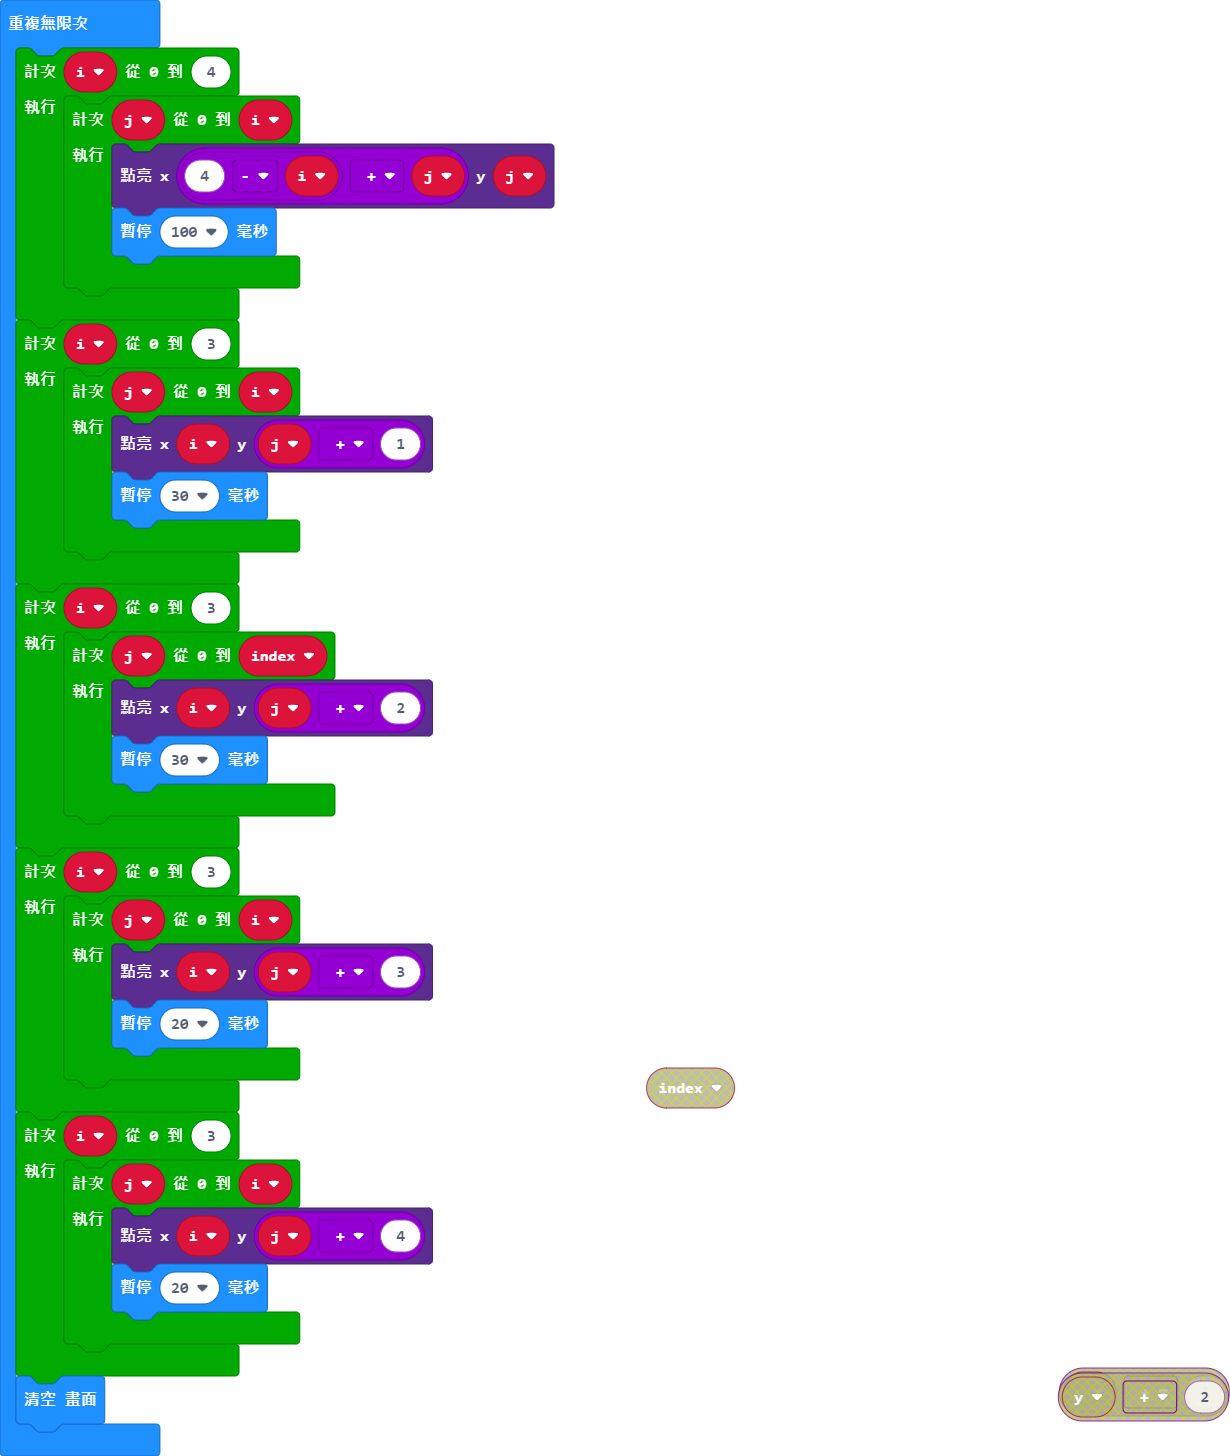
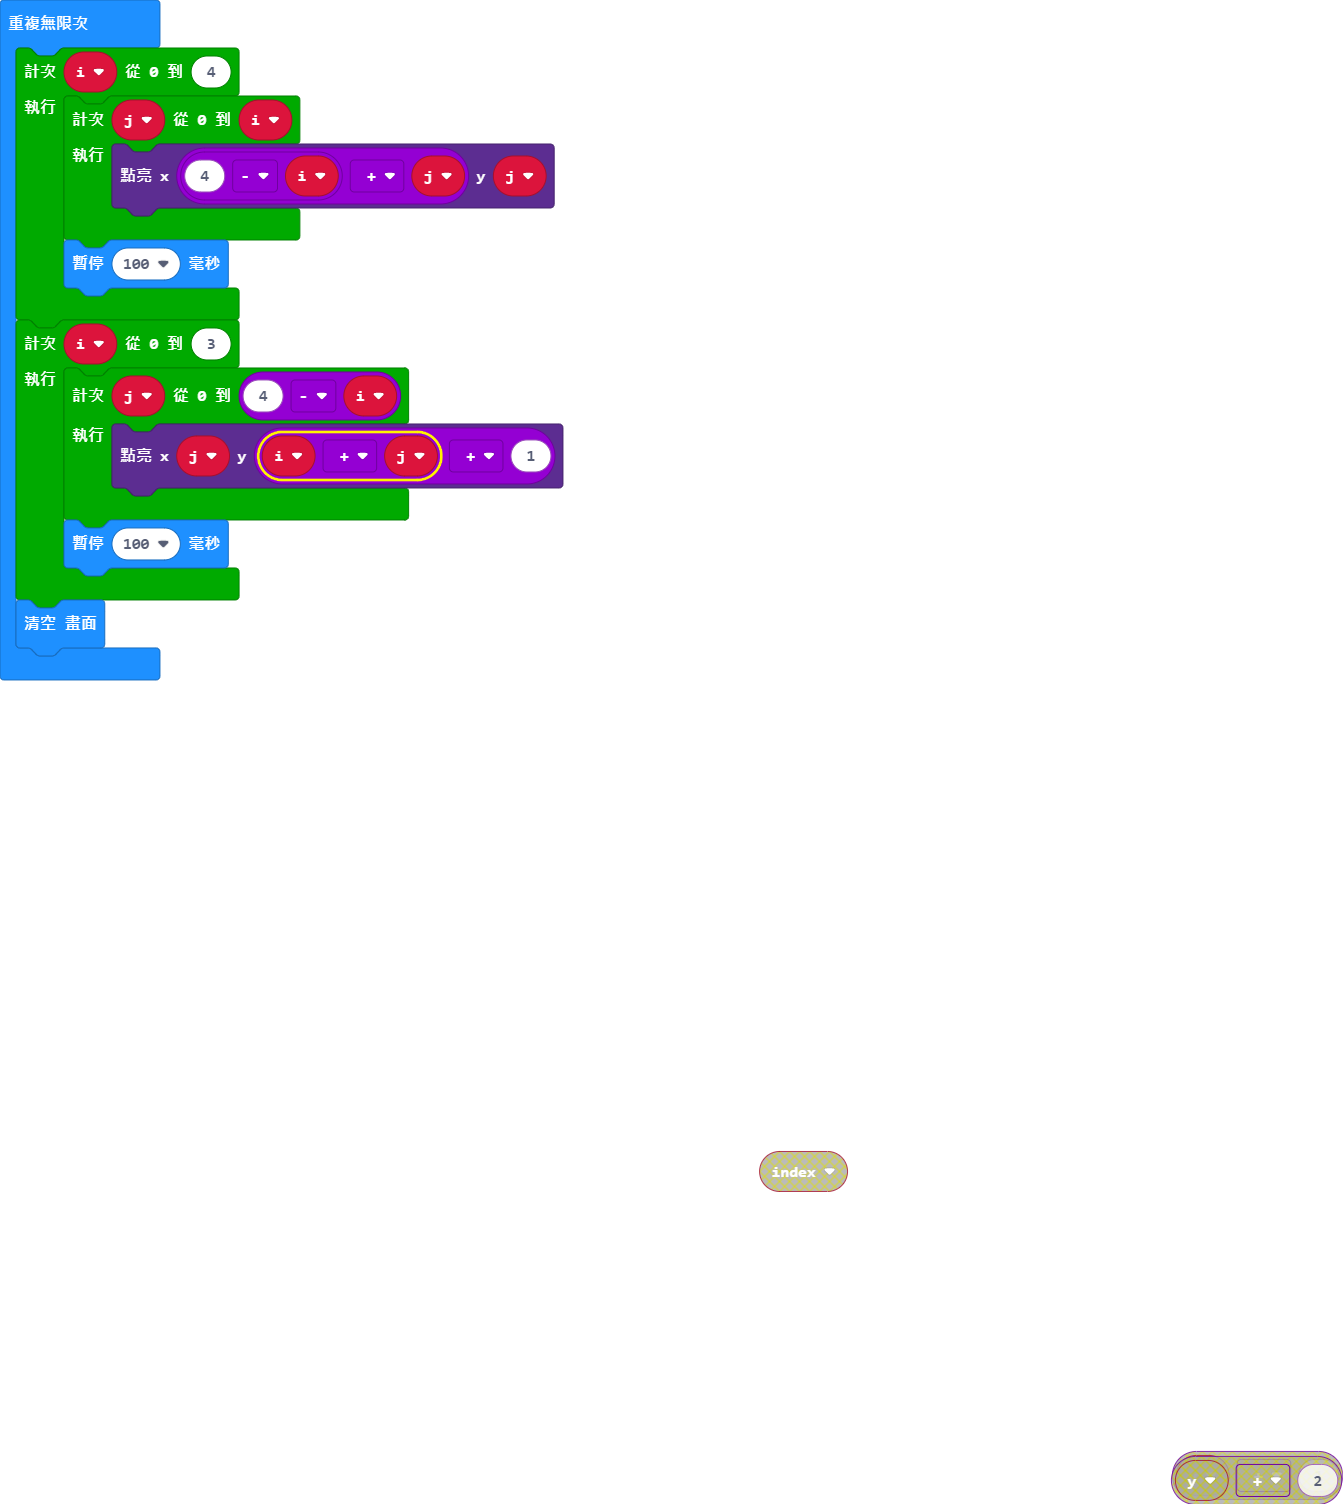
Update main.blocks, main.ts

Changed region(s): [[0.0, 0.0, 0.4634, 1.0], [0.865, 0.9272, 1.0, 1.0], [0.5252, 0.7109, 0.6488, 0.8036]]

diff --git a/main.ts b/main.ts
@@ -2,33 +2,14 @@ basic.forever(function () {
     for (let i = 0; i <= 4; i++) {
         for (let j = 0; j <= i; j++) {
             led.plot(4 - i + j, j)
-            basic.pause(100)
         }
+        basic.pause(100)
     }
     for (let i = 0; i <= 3; i++) {
-        for (let j = 0; j <= i; j++) {
-            led.plot(i, j + 1)
-            basic.pause(30)
+        for (let j = 0; j <= 4 - i; j++) {
+            led.plot(j, i + j + 1)
         }
-    }
-    for (let i = 0; i <= 3; i++) {
-        let index = 0
-        for (let j = 0; j <= index; j++) {
-            led.plot(i, j + 2)
-            basic.pause(30)
-        }
-    }
-    for (let i = 0; i <= 3; i++) {
-        for (let j = 0; j <= i; j++) {
-            led.plot(i, j + 3)
-            basic.pause(20)
-        }
-    }
-    for (let i = 0; i <= 3; i++) {
-        for (let j = 0; j <= i; j++) {
-            led.plot(i, j + 4)
-            basic.pause(20)
-        }
+        basic.pause(100)
     }
     basic.clearScreen()
 })
